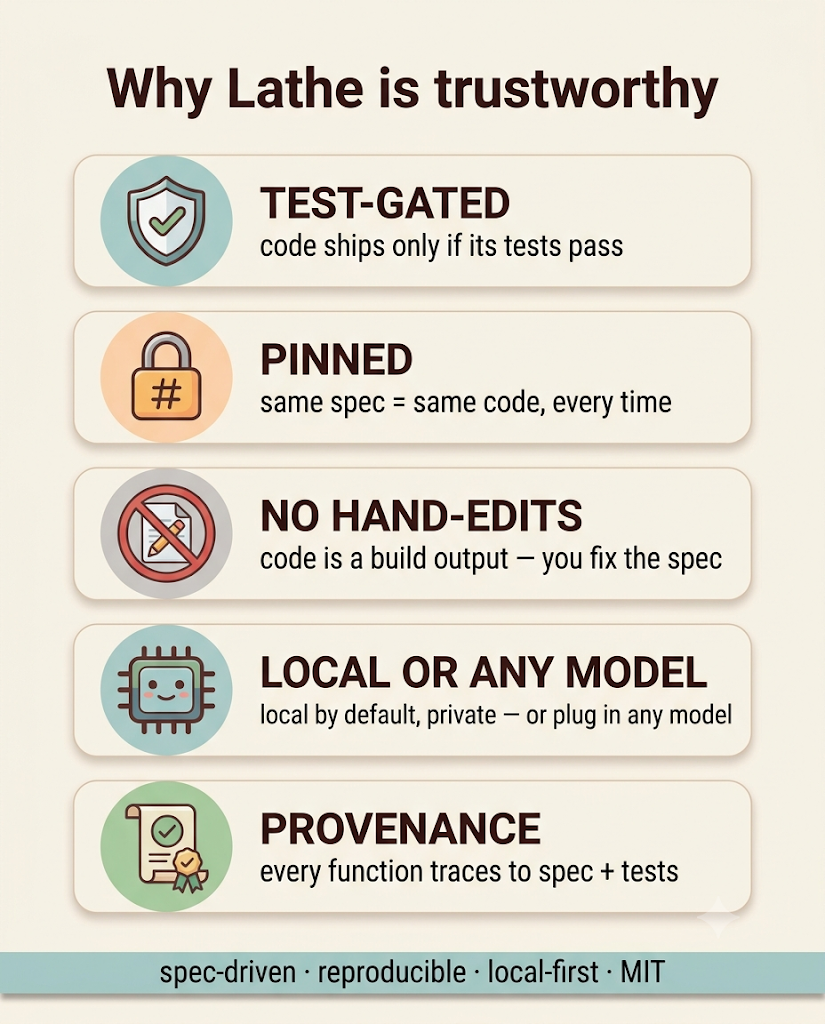
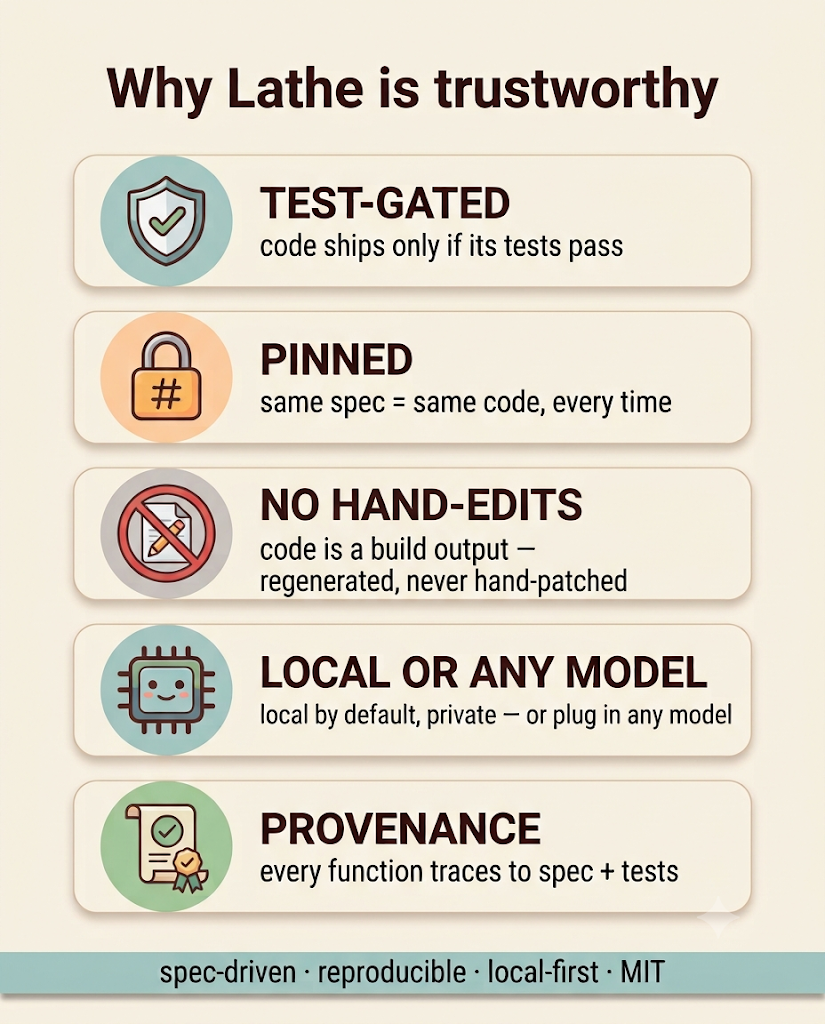
infographics: finalize 03_strengths (NO HAND-EDITS wording fixed)
Claude-Session: https://claude.ai/code/session_01RXVxW7mnU4rgx2d2ope1vy

Changed region(s): [[0.303, 0.4688, 0.8788, 0.5938]]

diff --git a/docs/infographics/README.md b/docs/infographics/README.md
@@ -8,13 +8,12 @@ through the harness itself** (`lathe review` with a vision-capable analyst).
 |---|---|---|
 | `01_build_loop.png` | **How Lathe works** — the pipeline: GOAL → ANALYST (spec+tests) → IMPLEMENTER (code) → GATE (sandbox tests) → PIN; FAIL loops back to "sharpen the spec — never escalate". | ✅ Final (title fixed) |
 | `02_division_of_labor.png` | **Big brain thinks, small brain builds** — analyst (frontier) vs implementer (local by default); model-agnostic ribbon. | ✅ Final (model-agnostic) |
-| `03_strengths.png` | **Why Lathe is trustworthy** — TEST-GATED · PINNED · NO HAND-EDITS · LOCAL OR ANY MODEL · PROVENANCE. | ⚠️ Near-final — pending one text fix (see below) |
+| `03_strengths.png` | **Why Lathe is trustworthy** — TEST-GATED · PINNED · NO HAND-EDITS · LOCAL OR ANY MODEL · PROVENANCE. | ✅ Final (NO HAND-EDITS wording corrected) |
 
-## Known pending fix
-- `03_strengths.png`, **NO HAND-EDITS** row subtext currently reads *"code is a build output — you fix the
-  spec."* This is **inaccurate**: the human supplies requirements/goal; the **higher (analyst) model authors
-  the spec + tests**. Replace with *"code is a build output — regenerated, never hand-patched"* (or
-  *"you refine the goal, the AI re-specs"*). Regenerate before treating this image as final.
+## Pending
+- A determinism deep-dive (`04_determinism.png`) is planned — see the accuracy note below on *how* pinning
+  yields "same spec = same code" (the code is produced by a non-deterministic intermediary model; determinism
+  comes from pinning + reuse, not from the model).
 
 ## Accuracy notes (kept honest on purpose)
 - The mental model across all three: **you → requirements/goal → analyst (higher model) writes spec + tests →
@@ -29,4 +28,4 @@ through the harness itself** (`lathe review` with a vision-capable analyst).
 Generated 2026-07-02. SHA-256 (first 20 hex) at save time:
 - 01_build_loop.png — `82fc5e55ea51cd56c50a`
 - 02_division_of_labor.png — `9067115d0e7082a32b12`
-- 03_strengths.png — `dcb5907fe35ba2c50878`
+- 03_strengths.png — `1f9a70e24f2a1aca31df` (final)